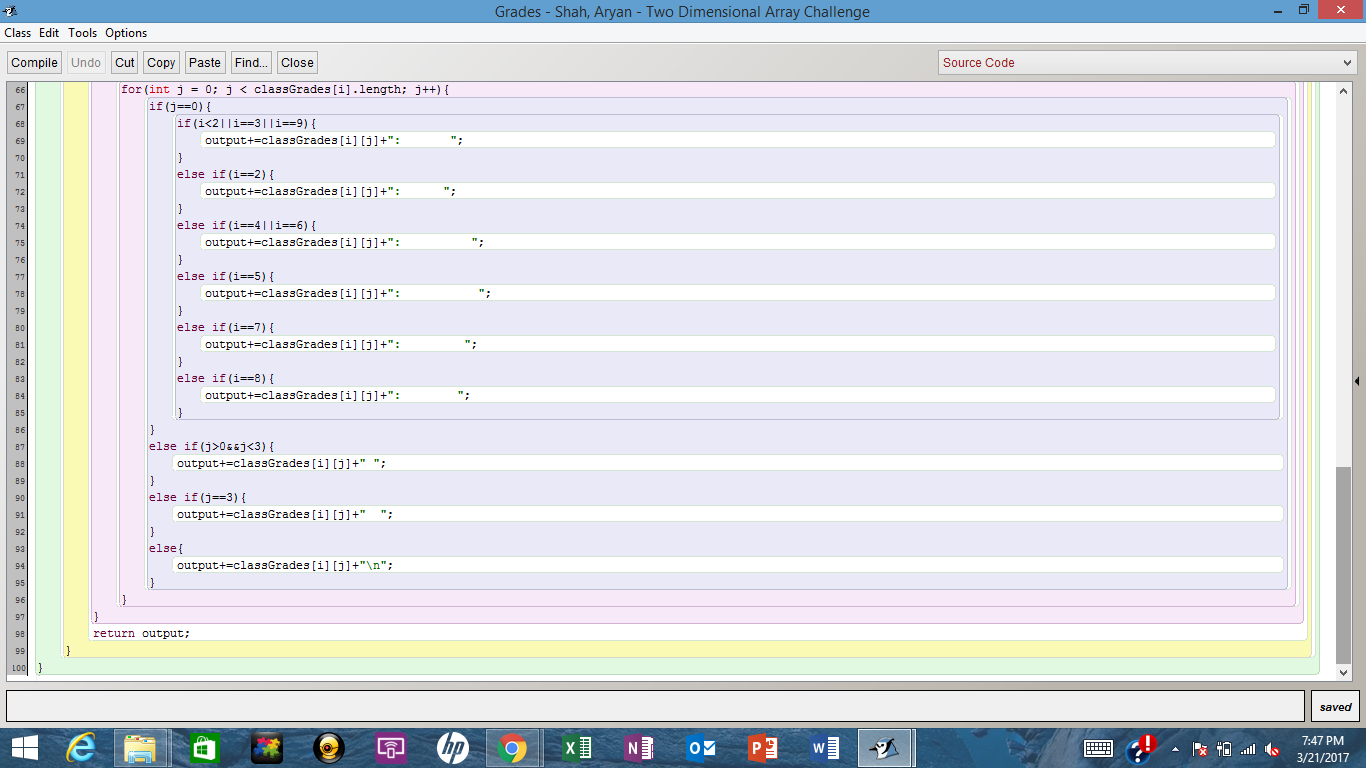
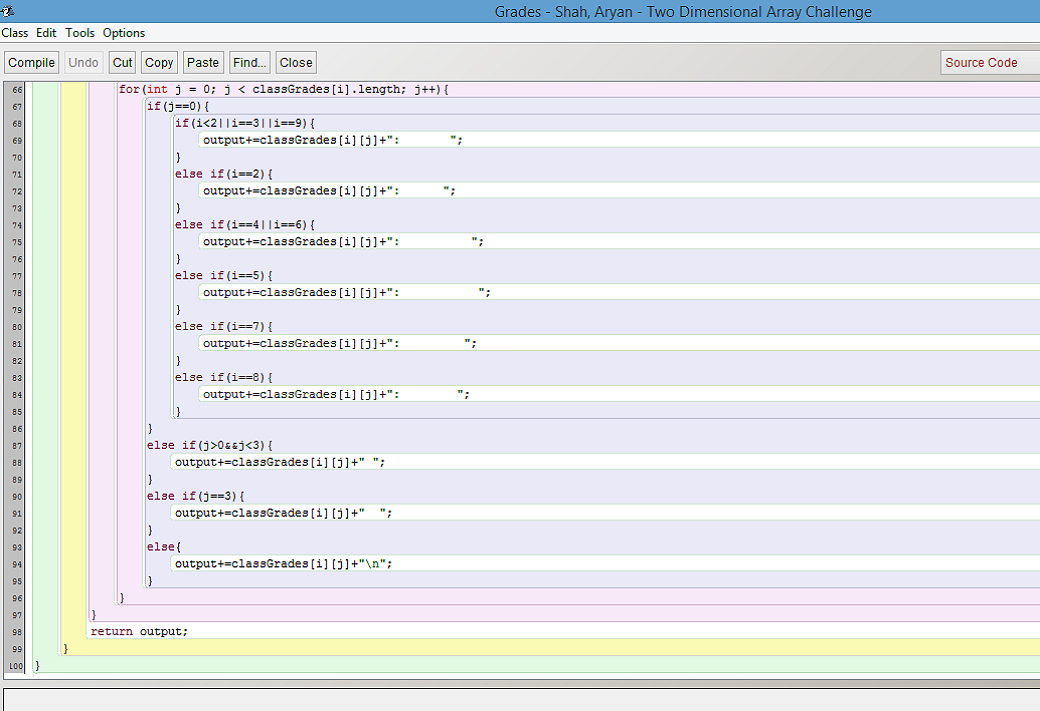
resized images and completed cope modals

Changed region(s): [[0.0, 0.0, 1.0, 1.0], [0.4615, 0.3404, 0.4923, 0.3713], [0.4308, 0.4641, 0.4615, 0.4951]]

diff --git a/CTE_byroom.htm b/CTE_byroom.htm
@@ -752,19 +752,24 @@
   </div>
     <div class="slideshow-container">
     <div class="mySlides9 fade">
-      <div class="numbertext">1 / 3</div>
-      <img src="TBD" style="width:100%">
-      <div class="text">CAPTION 1</div>
+      <div class="numbertext">1 / 4</div>
+      <img src="pictures/CTE/COPE/cope1.png" style="width:100%">
+      <div class="text">A two-dimensional array challenge</div>
     </div>
     <div class="mySlides9 fade">
-      <div class="numbertext">2 / 3</div>
-      <img src="TBD" style="width:100%">
-      <div class="text">CAPTION 2</div>
+      <div class="numbertext">2 / 4</div>
+      <img src="pictures/CTE/COPE/cope4.png" style="width:100%">
+      <div class="text">Great usage of nested if-else conditions</div>
     </div>
     <div class="mySlides9 fade">
-      <div class="numbertext">3 / 3</div>
-      <img src="TBD" style="width:100%">
-      <div class="text">CAPTION 3</div>
+      <div class="numbertext">3 / 4</div>
+      <img src="pictures/CTE/COPE/cope6.png" style="width:100%">
+      <div class="text">Binary challenge in Java</div>
+    </div>
+    <div class="mySlides9 fade">
+      <div class="numbertext">4 / 4</div>
+      <img src="pictures/CTE/COPE/copehw.PNG" style="width:100%">
+      <div class="text">A sample of typical homework that teaches core concepts.</div>
     </div>
     <a class="prev" onclick="plusSlides9(-1)">&#10094;</a>
     <a class="next" onclick="plusSlides9(1)">&#10095;</a>
@@ -774,6 +779,7 @@
     <span class="dot9" onclick="currentSlide9(1)"></span> 
     <span class="dot9" onclick="currentSlide9(2)"></span> 
     <span class="dot9" onclick="currentSlide9(3)"></span>
+    <span class="dot9" onclick="currentSlide9(4)"></span>
   </div>
   <div class="modal-footer">
     <a href="#!" class=" modal-action modal-close btn-flat">Close</a>
